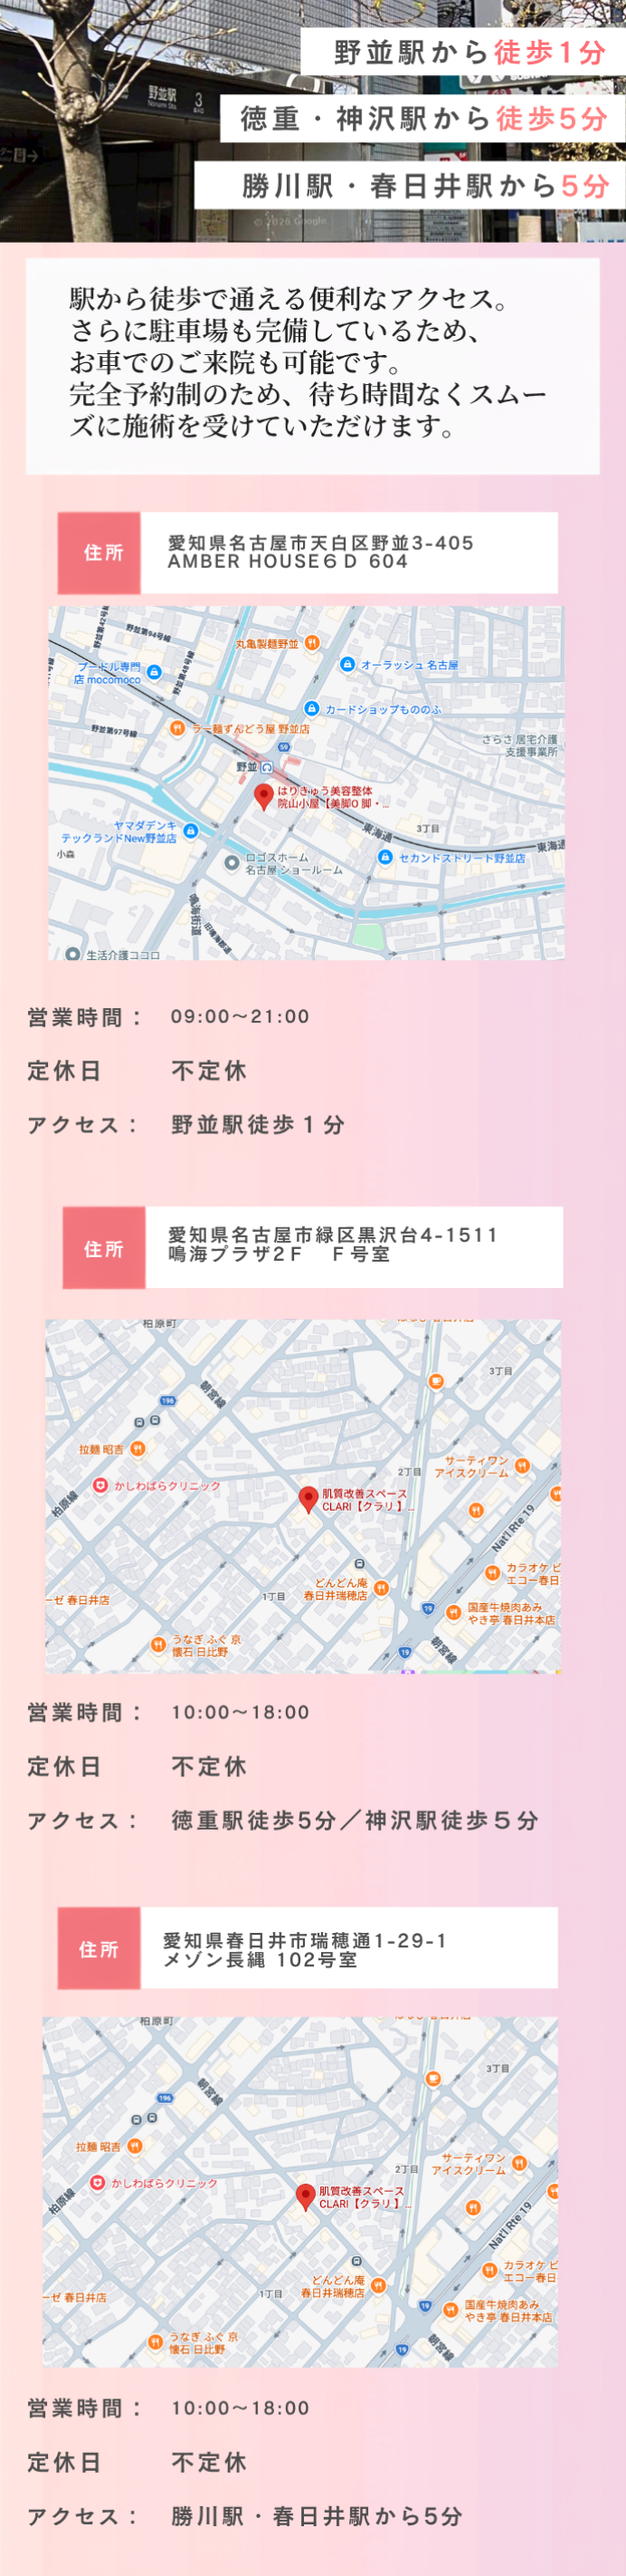
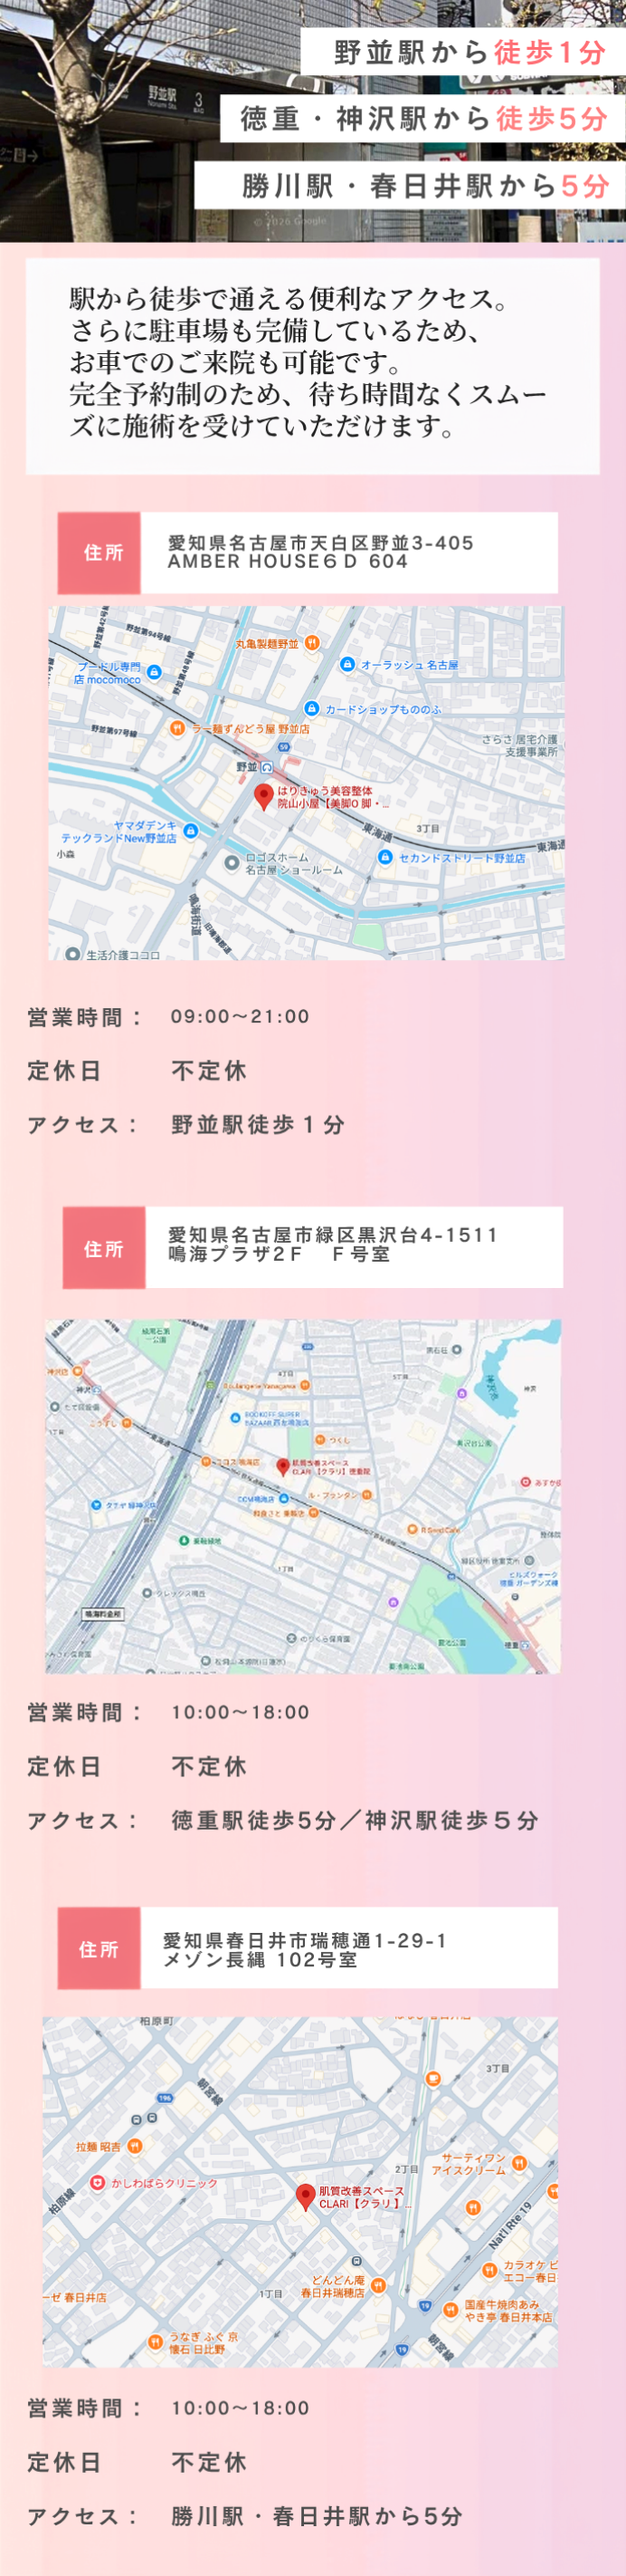
Replace FAQ and worries images; fix Midori-ku map in access image
Claude-Session: https://claude.ai/code/session_01D9N7WG3XaWjPArFwASqGj8

Changed region(s): [[0.0607, 0.4951, 0.9104, 0.6498]]

diff --git a/index.html b/index.html
@@ -43,7 +43,7 @@
         <img src="image/btn_line_friend.png" width="690" height="205" alt="LINEお友達登録はこちら" loading="lazy">
       </a>
 
-      <img src="image/worries.png" width="690" height="1320" alt="こんなお悩みありませんか？ そのお悩み謙めずに当院にお任せください！ 成功率91.3%超えのダイエット整体の結果をご覧ください！" loading="lazy">
+      <img src="image/worries.webp" width="690" height="1320" alt="こんなお悩みありませんか？ そのお悩み謙めずに当院にお任せください！ 成功率91.3%超えのダイエット整体の結果をご覧ください！" loading="lazy">
       <img src="image/case01.png" width="690" height="900" alt="CASE01 30代女性 3ヶ月 体重-10.4kg ウエスト-11.9cm" loading="lazy">
       <img src="image/case02.png" width="690" height="900" alt="CASE02 30代女性 3ヶ月 体重-11.0kg ウエスト-14.4cm" loading="lazy">
       <img src="image/case03.png" width="690" height="900" alt="CASE03 50代女性 3ヶ月 体重-14.9kg ウエスト-12.0cm" loading="lazy">
